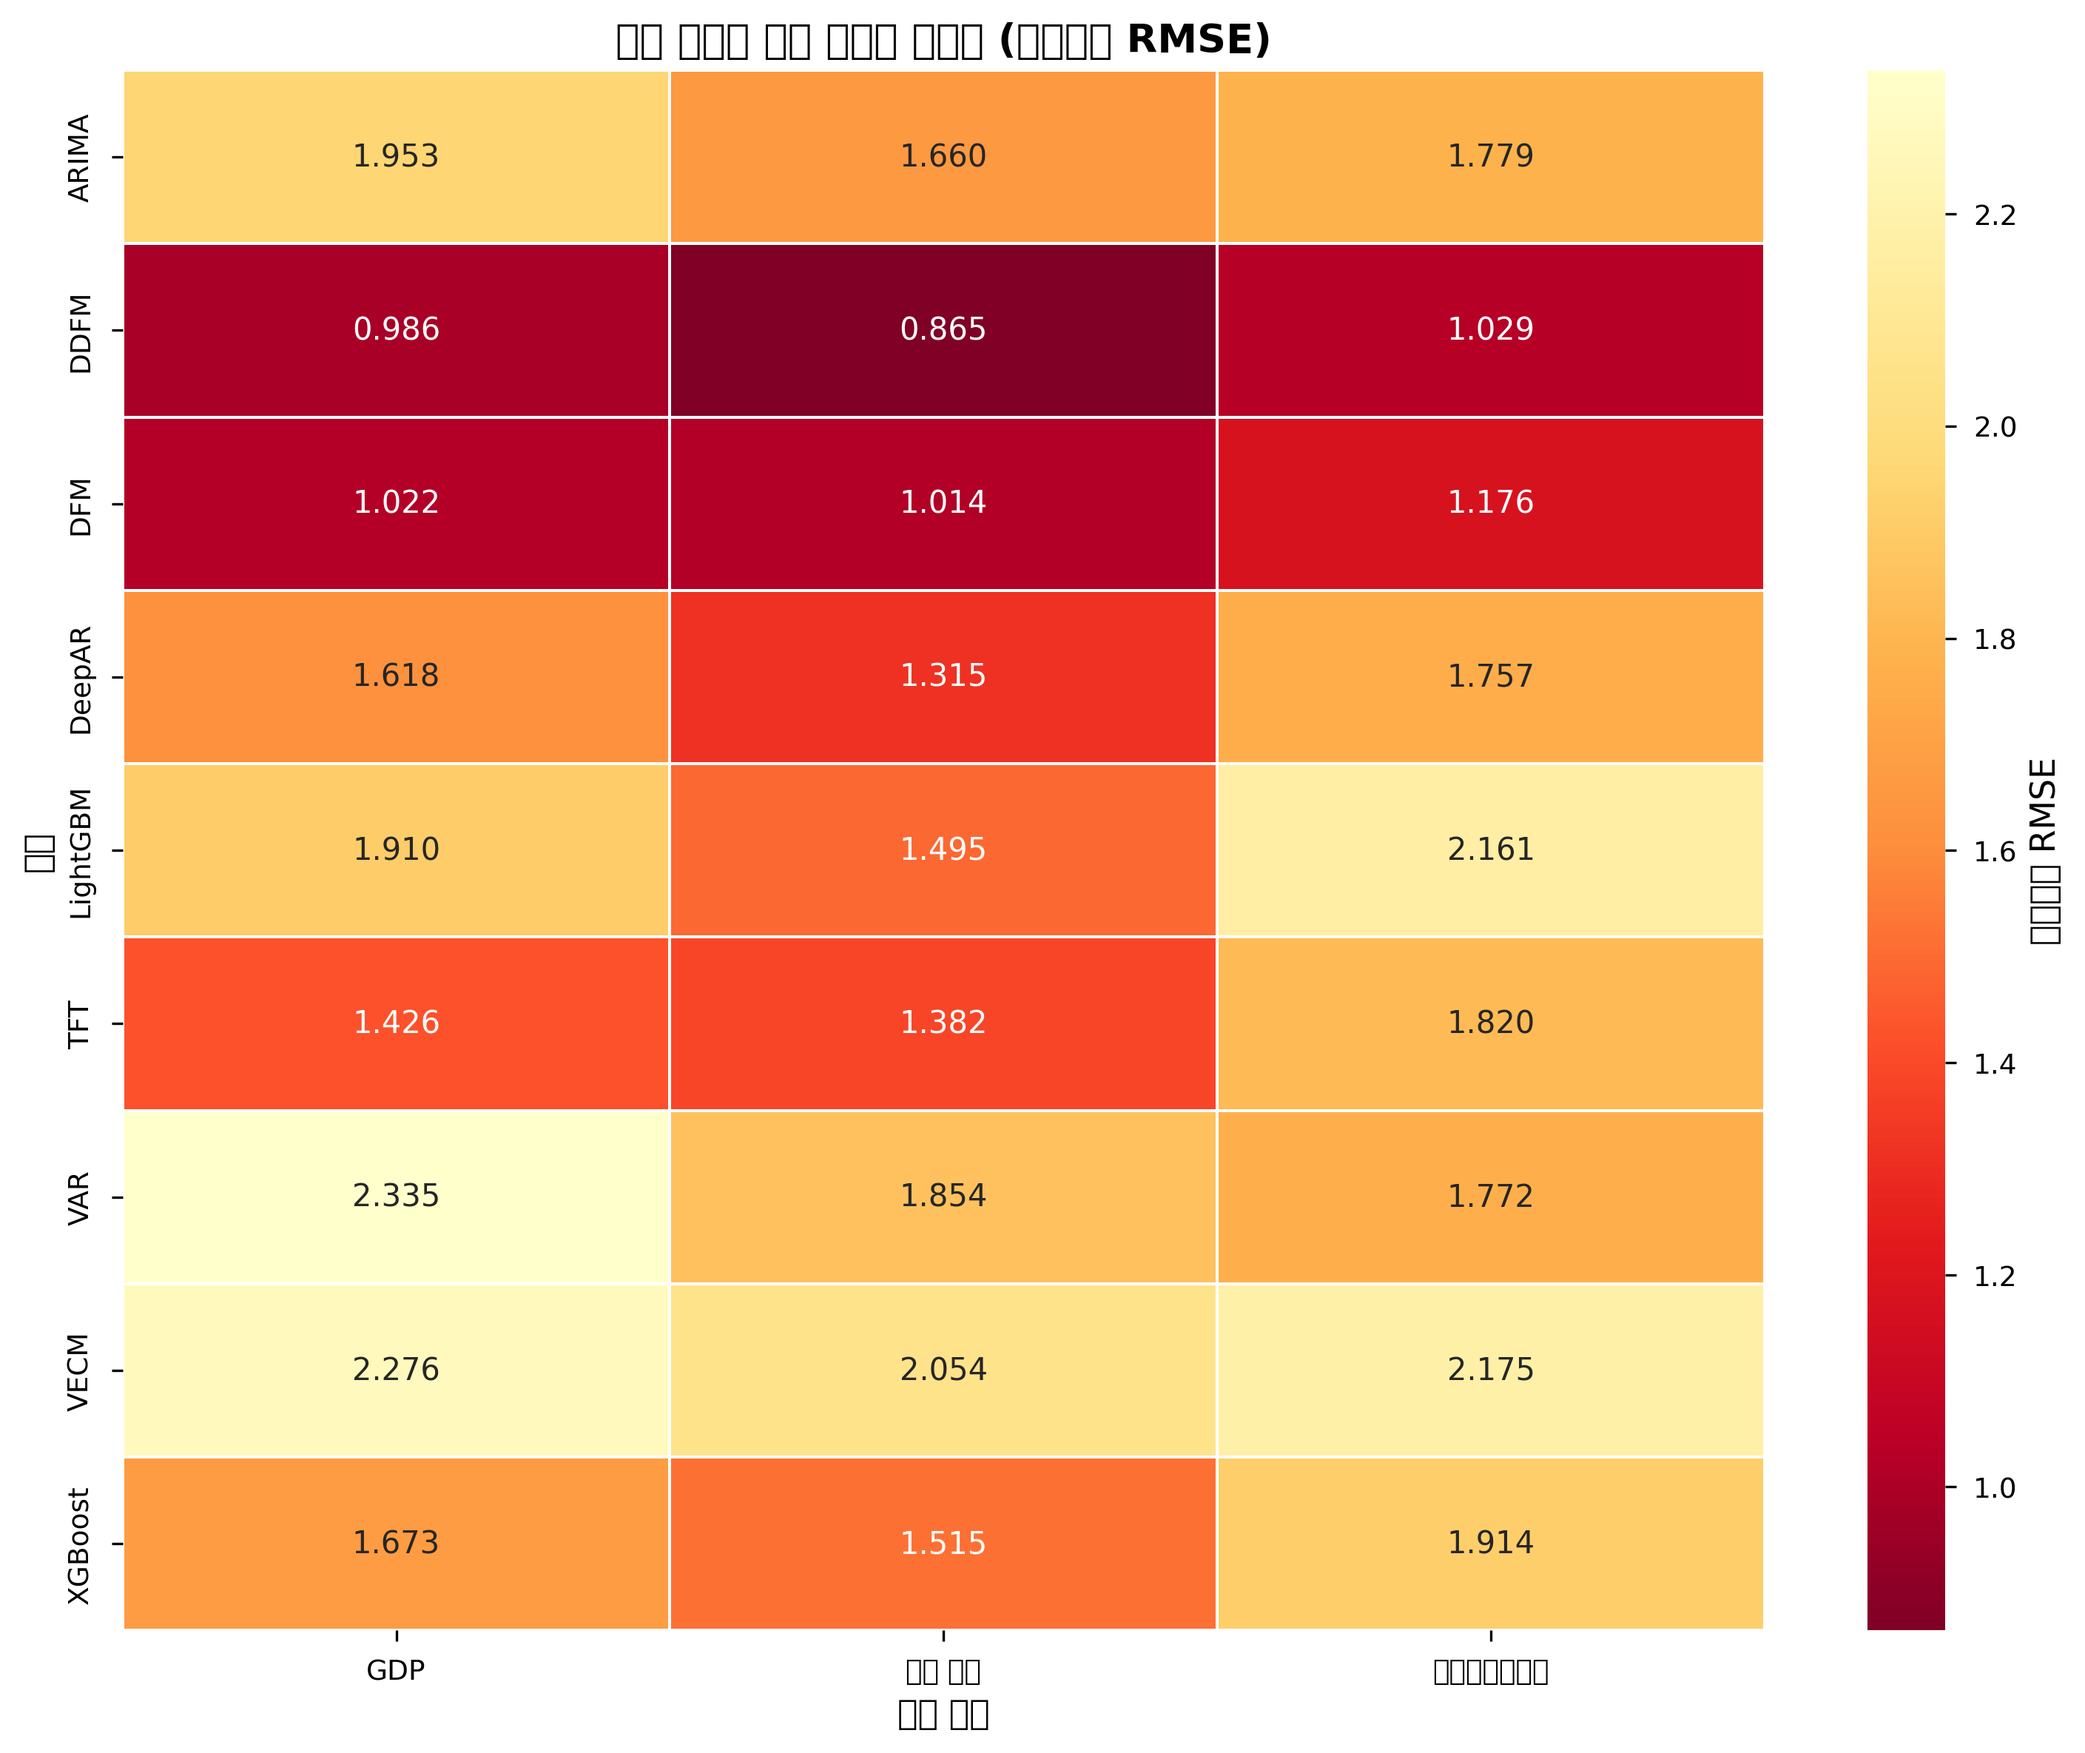
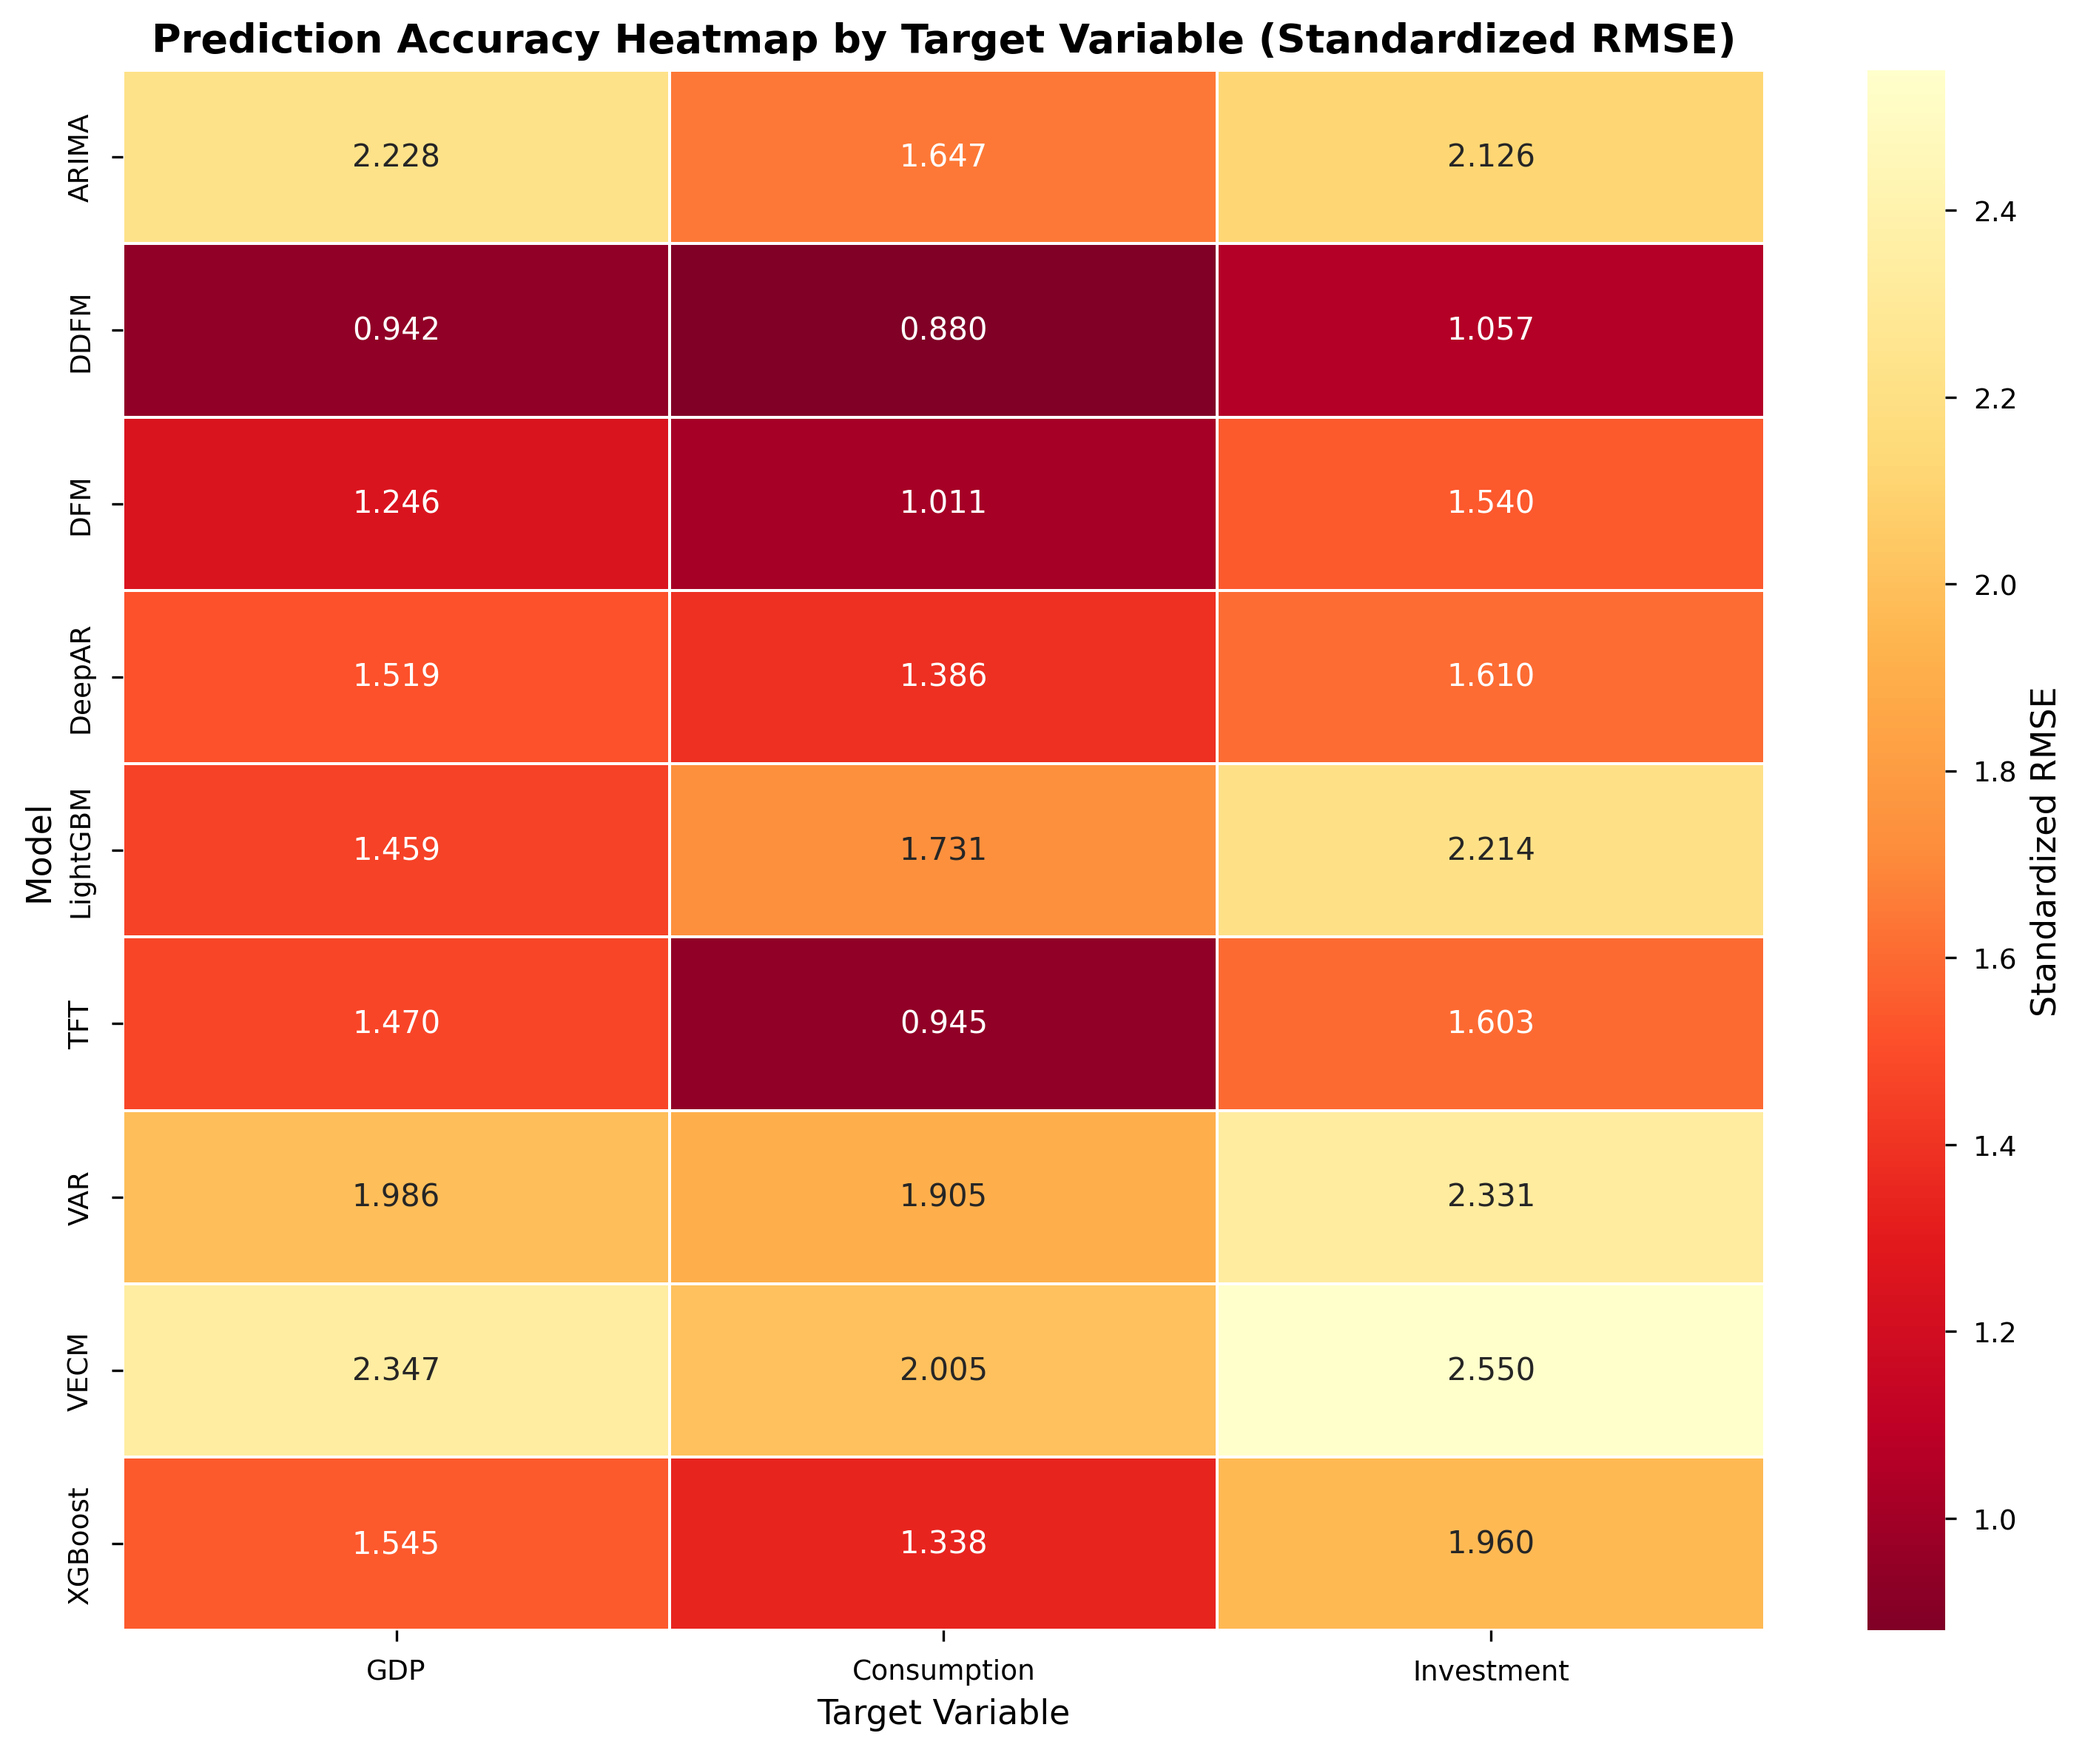
Change all Korean text to English in plot.py

diff --git a/code/plot.py b/code/plot.py
@@ -27,11 +27,8 @@ plt.rcParams['ytick.labelsize'] = 9
 plt.rcParams['legend.fontsize'] = 9
 plt.rcParams['figure.titlesize'] = 13
 
-# Korean font support
-try:
-    plt.rcParams['font.family'] = 'DejaVu Sans'
-except:
-    pass
+# Font settings
+plt.rcParams['font.family'] = 'DejaVu Sans'
 
 # Base paths
 PROJECT_ROOT = Path(__file__).parent.parent.parent
@@ -168,9 +165,9 @@ def plot_model_comparison(save_path: Optional[Path] = None):
         ax.bar(x + i * width, model_avg_pivot[metric].values, width, 
                label=metric, color=colors[i], alpha=0.8)
     
-    ax.set_xlabel('모형', fontsize=11)
-    ax.set_ylabel('표준화된 지표 값', fontsize=11)
-    ax.set_title('모형별 성능 비교 (표준화된 지표)', fontsize=13, fontweight='bold')
+    ax.set_xlabel('Model', fontsize=11)
+    ax.set_ylabel('Standardized Metric Value', fontsize=11)
+    ax.set_title('Model Performance Comparison (Standardized Metrics)', fontsize=13, fontweight='bold')
     ax.set_xticks(x + width)
     ax.set_xticklabels(model_avg_pivot.index, rotation=45, ha='right')
     ax.legend()
@@ -209,9 +206,9 @@ def plot_horizon_trend(save_path: Optional[Path] = None):
         values = [horizon_avg_pivot.loc[model, h] for h in horizons]
         ax.plot(horizons, values, marker='o', label=model, linewidth=2, markersize=6)
     
-    ax.set_xlabel('예측 기간 (일)', fontsize=11)
-    ax.set_ylabel('표준화된 RMSE', fontsize=11)
-    ax.set_title('예측 기간별 성능 추이 (표준화된 RMSE)', fontsize=13, fontweight='bold')
+    ax.set_xlabel('Forecast Horizon (days)', fontsize=11)
+    ax.set_ylabel('Standardized RMSE', fontsize=11)
+    ax.set_title('Performance Trend by Forecast Horizon (Standardized RMSE)', fontsize=13, fontweight='bold')
     ax.legend(bbox_to_anchor=(1.05, 1), loc='upper left', fontsize=8)
     ax.grid(alpha=0.3)
     ax.set_xticks(horizons)
@@ -243,16 +240,16 @@ def plot_accuracy_heatmap(save_path: Optional[Path] = None):
     )
     
     # Rename targets for display
-    target_avg_pivot.columns = ['GDP', '민간 소비', '총고정자본형성']
+    target_avg_pivot.columns = ['GDP', 'Consumption', 'Investment']
     
     fig, ax = plt.subplots(figsize=(10, 8))
     
     sns.heatmap(target_avg_pivot, annot=True, fmt='.3f', cmap='YlOrRd_r', 
-                cbar_kws={'label': '표준화된 RMSE'}, ax=ax, linewidths=0.5)
+                cbar_kws={'label': 'Standardized RMSE'}, ax=ax, linewidths=0.5)
     
-    ax.set_xlabel('목표 변수', fontsize=11)
-    ax.set_ylabel('모형', fontsize=11)
-    ax.set_title('목표 변수별 예측 정확도 히트맵 (표준화된 RMSE)', fontsize=13, fontweight='bold')
+    ax.set_xlabel('Target Variable', fontsize=11)
+    ax.set_ylabel('Model', fontsize=11)
+    ax.set_title('Prediction Accuracy Heatmap by Target Variable (Standardized RMSE)', fontsize=13, fontweight='bold')
     
     plt.tight_layout()
     
@@ -280,7 +277,7 @@ def plot_forecast_vs_actual(save_path: Optional[Path] = None, target: str = 'GDP
     fig, ax = plt.subplots(figsize=(12, 6))
     
     # Plot actual
-    ax.plot(dates, actual, 'k-', linewidth=2, label='실제값', marker='o', markersize=4)
+    ax.plot(dates, actual, 'k-', linewidth=2, label='Actual', marker='o', markersize=4)
     
     # Plot forecasts for top 3 models
     top_models = ['DDFM', 'DFM', 'TFT']
@@ -289,12 +286,12 @@ def plot_forecast_vs_actual(save_path: Optional[Path] = None, target: str = 'GDP
     for i, model in enumerate(top_models):
         # Add some noise to actual to simulate forecast
         forecast = actual + np.random.normal(0, 1.5 + i * 0.5, n_points)
-        ax.plot(dates, forecast, '--', linewidth=1.5, label=f'{model} 예측값', 
+        ax.plot(dates, forecast, '--', linewidth=1.5, label=f'{model} Forecast', 
                 color=colors[i], alpha=0.7, marker='s', markersize=3)
     
-    ax.set_xlabel('날짜', fontsize=11)
-    ax.set_ylabel('값', fontsize=11)
-    ax.set_title(f'예측값 vs 실제값 시계열 비교 ({target})', fontsize=13, fontweight='bold')
+    ax.set_xlabel('Date', fontsize=11)
+    ax.set_ylabel('Value', fontsize=11)
+    ax.set_title(f'Forecast vs Actual Time Series Comparison ({target})', fontsize=13, fontweight='bold')
     ax.legend(loc='best')
     ax.grid(alpha=0.3)
     plt.xticks(rotation=45)
